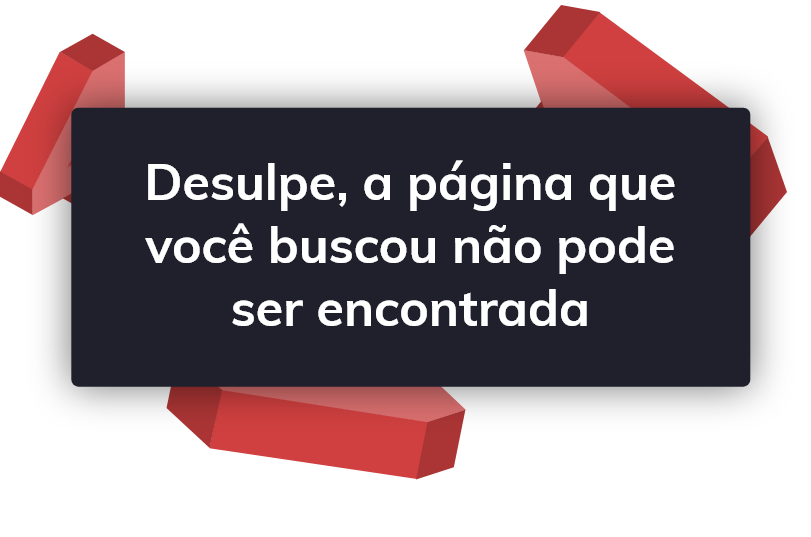
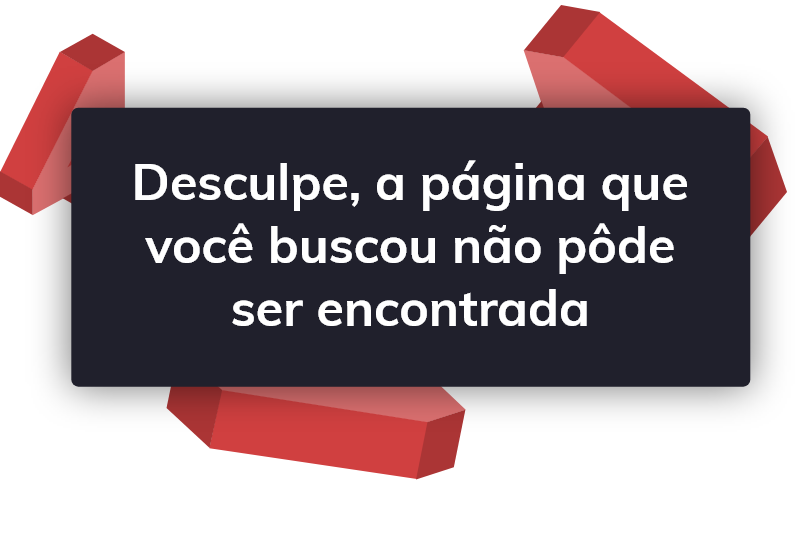
adjusted session modal on guest and fixed error pt translations

Changed region(s): [[0.1541, 0.298, 0.8631, 0.4171], [0.7398, 0.4171, 0.7707, 0.4469]]

diff --git a/public/css/lecture.css b/public/css/lecture.css
@@ -11,21 +11,18 @@ body {
     margin: 0;
   }
 
-.login-modal-content::-webkit-scrollbar,
 .message-container::-webkit-scrollbar,
 .page-list::-webkit-scrollbar {
   width: 7px;
 }
 
 /* Track */
-.login-modal-content::-webkit-scrollbar-track,
 .message-container::-webkit-scrollbar-track,
 .page-list::-webkit-scrollbar-track {
   background: #f1f1f1;
 }
 
 /* Handle */
-.login-modal-content::-webkit-scrollbar-thumb,
 .message-container::-webkit-scrollbar-thumb,
 .page-list::-webkit-scrollbar-thumb {
   background: rgb(150, 150, 150);
@@ -33,7 +30,6 @@ body {
 }
 
 /* Handle on hover */
-.login-modal-content::-webkit-scrollbar-thumb:hover,
 .message-container::-webkit-scrollbar-thumb:hover
 .page-list::-webkit-scrollbar-thumb:hover {
   background: #555;
@@ -116,6 +112,8 @@ body {
 }
 
 .top-logo-bar{
+  position: relative;
+  z-index: 1;
   width: 100%;
   padding-top: 20px;
   padding-left: 50px;
@@ -633,6 +631,18 @@ video.whiteboard{
     height: 95px;
   }
 
+  input.inputBox{
+    width: 90%;
+  }
+
+  div.guest-name-input-container span{
+    font-size: .69rem;
+  }
+
+  div.inputText{
+    margin-left: 5.5%;
+  }
+
   input#message-input{
     width: 89% !important;
   }
@@ -823,27 +833,9 @@ video.whiteboard{
   -webkit-text-fill-color: transparent;
 }
 
-  /* The Modal (background) */
-.login-modal {
-  display: block; /* Hidden by default */
-  position: fixed; /* Stay in place */
-  z-index: 11000000; /* Sit on top */
-  margin: 0 auto;
-  top: 50%;
-  left: 50%;/*put in the center*/
-  transform: translate(-50%, -50%);
-  
-  width: 100%; /* Full width */
-  height: 100%;
-  overflow: auto; /* Enable scroll if needed */
-  background-color: rgb(0, 0, 0); /* Fallback color */
-  background-color: rgba(0, 0, 0, 0.7); /* Black w/ opacity */
-  
-}
-
 /* Modal Content */
 .login-modal-content {
-  display: block;/* default */
+  display: block; /* default */
   background-color: var(--bg-primary);
   margin: auto;
   position: relative;
@@ -851,11 +843,11 @@ video.whiteboard{
   transform: translateY(-50%);
   max-width: 600px;
   max-height: 75%;
-  width: 75%;
+  width: 85%;
   border-radius: 10px;
   animation: fadein 0.7s;
-  overflow-x: hidden;
-  overflow-y: auto;
+  padding: 30px;
+  padding-bottom: 20px;
   -webkit-box-shadow: 0 19px 38px rgba(0, 0, 0, 0.3), 0 15px 12px rgba(0, 0, 0, 0.22);
   box-shadow: 0 19px 38px rgba(0, 0, 0, 0.3), 0 15px 12px rgba(0, 0, 0, 0.22);
 }
@@ -868,10 +860,6 @@ video.whiteboard{
   --bg-primary: #23232e;
   --bg-secondary: #141418;
   --transition-speed: 600ms;
-}
-
-.modal-main-content{
-  margin: 30px;
 }
 
 #modal-content-header {
@@ -907,15 +895,7 @@ video.whiteboard{
 }
 
 #modal-buttons-container {
-  position: relative;
-  display: inline-block;
-  justify-content: center;
-  align-items: center;
-  margin: 1rem 0rem;
-  left: 50%;
-  top: 70px;
-  -ms-transform: translate(-50%, -50%);
-  transform: translate(-50%, -50%);
+  text-align: center;
 }
 
 .live-button{
@@ -1011,23 +991,38 @@ video.whiteboard{
 
 .inputText{
   color: white;
-  float: left;
   font-size: 18px;
-  margin-left: 30px;
+  margin-left: 15.5%;
+  text-align: left;
+}
+
+.guest-name-input-wrap{
+  display: flex;
+  flex-direction: column;
 }
 
 .create-lecture-inputs{
-  margin-top: 20px;
-  margin-bottom: 20px;
-  padding-right: 40px;
+  margin: 30px 0;
+  text-align: center;
+}
+
+.modal-content-subtitle{
+  font-size: 1.2rem;
+  opacity: 0.6;
+  color: white;
+  display: flex;
+  justify-content: center;
+}
+
+.guest-name-input-container span{
+  color: white;
+  opacity: 0.6;
+  font-size: .75rem;
 }
 
 .inputBox{
-  float: right;
   border-radius: 25px;
-  margin-left: 20px;
-  padding-right: 20px;
-  width: 60%;
+  width: 70%;
   height: 30px;
   border-color: white;
   box-shadow: 0px 0px 0px 0px white;
@@ -1037,53 +1032,15 @@ video.whiteboard{
 }
 
 .invalid-name{
-  position: absolute;
   opacity: 0;
   transition: .6s ease;
-  display: inline-block;
   color: rgb(255, 95, 95);
-  left: 57%;
-  transform: translateX(-50%);
   font-size: .9em;
-  width: 100%;
-  bottom: -20px;
 }
 
 @media only screen and (max-width: 720px) {
-  .create-lecture-inputs{
-    display: flex;
-    flex-direction: column;
-    justify-content: center;
-    margin-top: 10px;
-    margin-bottom: 10px;
-    padding-right: 0px;
-    align-items: center;
-  }
-
-  .inputBox{
-    margin-left: 0px;
-    padding-right: 0px;
-    display: flex;
-    justify-content: center;
-    align-items: center;
-    float: unset;
-    margin-top: 10px;
-    width: 100%;
-  }
-  .inputText{
-    float: unset;
-    display: flex;
-    align-items: center;
-    margin-left: 0px;
-  }
-
   #modal-content-header{
     font-size: calc(30px + 1.5vw);
-  }
-
-  .invalid-name{
-    width: 120%;
-    left: 57%;
   }
   
 }
@@ -1104,10 +1061,6 @@ video.whiteboard{
   
   .live-button{
     font-size: 1.2rem;
-  }
-
-  .invalid-name{
-    bottom: -20px;
   }
 }
 
@@ -1456,7 +1409,7 @@ div.messages.active-chat{
 }
 
 .modal {
-  display: none; /* Hidden by default */
+  display: block; /* Hidden by default */
   position: fixed; /* Stay in place */
   z-index: 1100000000000; /* Sit on top */
   margin: 0 auto;

diff --git a/public/lecture.html b/public/lecture.html
@@ -230,29 +230,36 @@
         </div>
     </div>
 
-    <div id="login-lecture-modal" class="login-modal">
+    <div id="login-lecture-modal" class="modal">
       <!-- Start Modal content -->
         <div class="login-modal-content">
-            <div id="join-content" class="modal-main-content">
-                <p id="modal-content-header">{{name}}</p>
-                <img id="modal-image" />
-                <div class="student-details-container">
-                    <p class="details-header">Student Details</p>
-                    <p class="note-header">Note: This name will be used by the professor to identify you, so choose it wisely.</p>
+            <div id="join-content">
+                <div>
+                    <p id="modal-content-header">{{#lang}}{{readyToJoin}}{{/lang}}</p>
+                    <div class="modal-content-subtitle">
+                        <div>
+                            <i class="fas fa-chalkboard-teacher"></i>
+                            {{#lang}}{{guestLectureRoom}}{{/lang}} | {{name}}
+                        </div>
+                    </div>
                 </div>
+
                 <div class="create-lecture-inputs">
-                    <label class="inputText" for="lectureName">Your Name:</label>
-                    <input autocomplete="off" spellcheck="false" class="inputBox" type="text" id="studentName" name="studentName">
+                    <div class="guest-name-input-wrap">
+                        <div class="inputText"><b>{{#lang}}{{reportBugLabelName}}{{/lang}}</b></div>
+                        <div>
+                            <input autocomplete="off" spellcheck="false" class="inputBox" type="text" id="studentName" name="studentName">
+                        </div>
+                    </div>
+                    <div class="guest-name-input-container">
+                        <span>{{#lang}}{{lectureNoteThat}}{{/lang}}</span>
+                    </div>
                 </div>
                 <div id="modal-buttons-container">
-      
-                  <button id="modal-select-button" class="live-button">Join Lecture</button>
-                    
+                  <button id="modal-select-button" class="live-button">{{#lang}}{{joinLecture}}{{/lang}}</button>
                   <div class="invalid-name" id="invalid-student-name">
-                    Please provide a lecture user name
+                      {{#lang}}{{lectureInvalidName}}{{/lang}}
                   </div>
-
-                  <!--<button class = "modal-select-button mic_button">Test Mic</button>-->
                 </div> 
               </div>
         </div>

diff --git a/public/css/style.css b/public/css/style.css
@@ -95,6 +95,8 @@ body {
 }
 
 .top-logo-bar{
+  position: relative;
+  z-index: 1;
   width: 100%;
   padding-top: 20px;
   padding-left: 50px;
